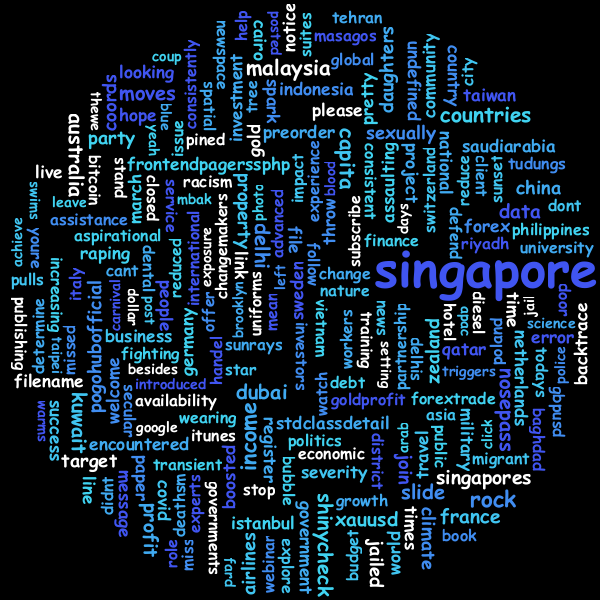
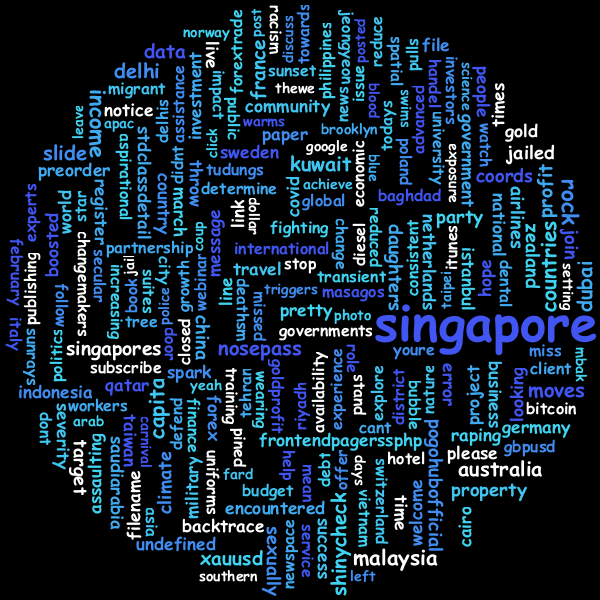
focused on budget2021

diff --git a/Spooder/src/main/java/Spooding/Spooder/App.java b/Spooder/src/main/java/Spooding/Spooder/App.java
@@ -25,12 +25,12 @@ public class App {
 		Scanner input = new Scanner(System.in);
 		System.out.print("Enter search string: ");
 		String searchString = input.next();
-		url = "https://www.reddit.com/search/?q=" + searchString;
+//		url = "https://www.reddit.com/search/?q=" + searchString;
 		//instantiate App object, enabling polymorphism via App methods
 		App crawlerProgram = new App();
 
 		// instantiate redditCrawler
-		Crawler redditCrawler = new RedditCrawler(url);
+		Crawler redditCrawler = new RedditCrawler();
 		// instantiate twitterCrawler
 		Crawler twitterCrawler = new TwitterCrawler(searchString, 100);
 //		twitterCrawler.twitterStart();

diff --git a/Spooder/src/main/java/Spooding/Spooder/RedditCrawler.java b/Spooder/src/main/java/Spooding/Spooder/RedditCrawler.java
@@ -21,13 +21,14 @@ public class RedditCrawler extends Crawler {
 	public String getBaseUrl() {
 		return baseUrl;
 	}
-
+	
+	//if user wants to crawl from another url
 	public void setBaseUrl(String baseUrl) {
 		this.baseUrl = baseUrl;
 	}
 
 	public RedditCrawler() {
-		this.driver = initWebDriver();
+		this.baseUrl = "https://www.reddit.com/r/singapore/search/?q=budget%20flair%3ANews%20OR%20flair%3APolitics%20OR%20flair%3AOpinion_Article%20OR%20flair%3ASerious_Discussion&restrict_sr=1";
 	}
 	
 	public RedditCrawler(String baseUrl) {
